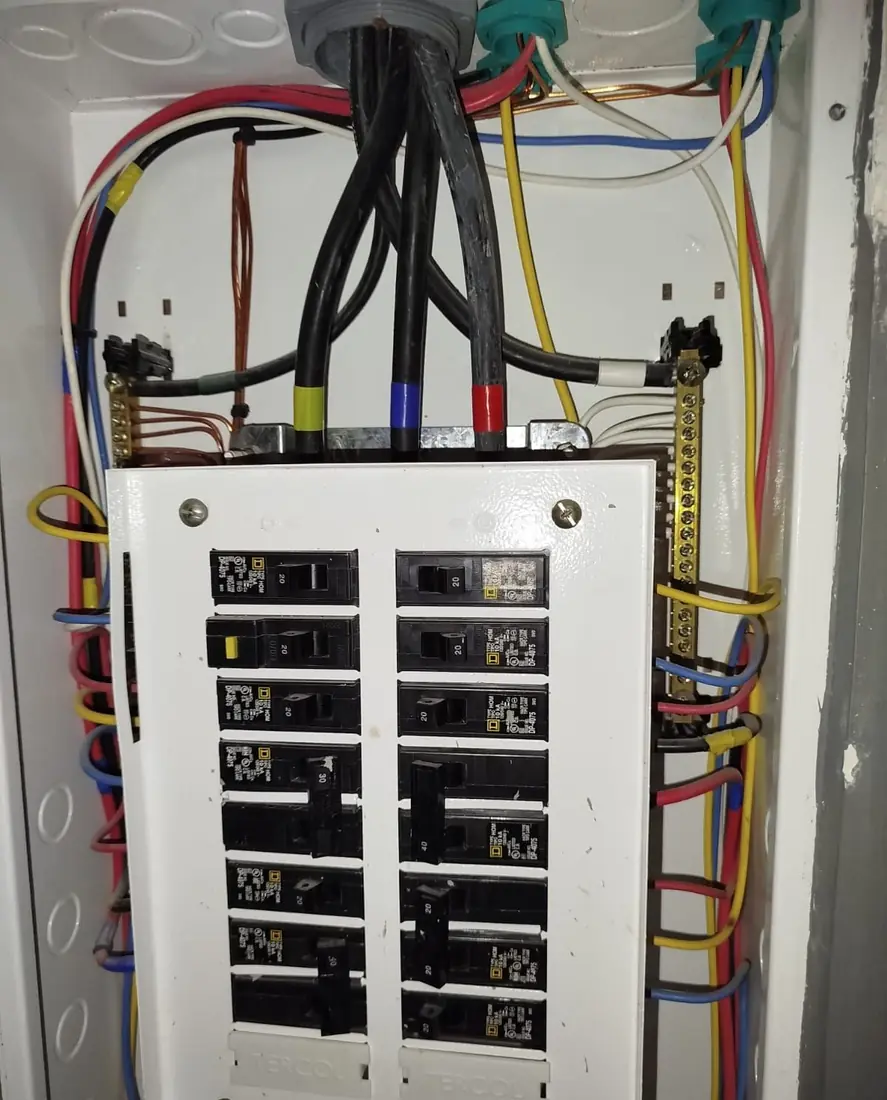
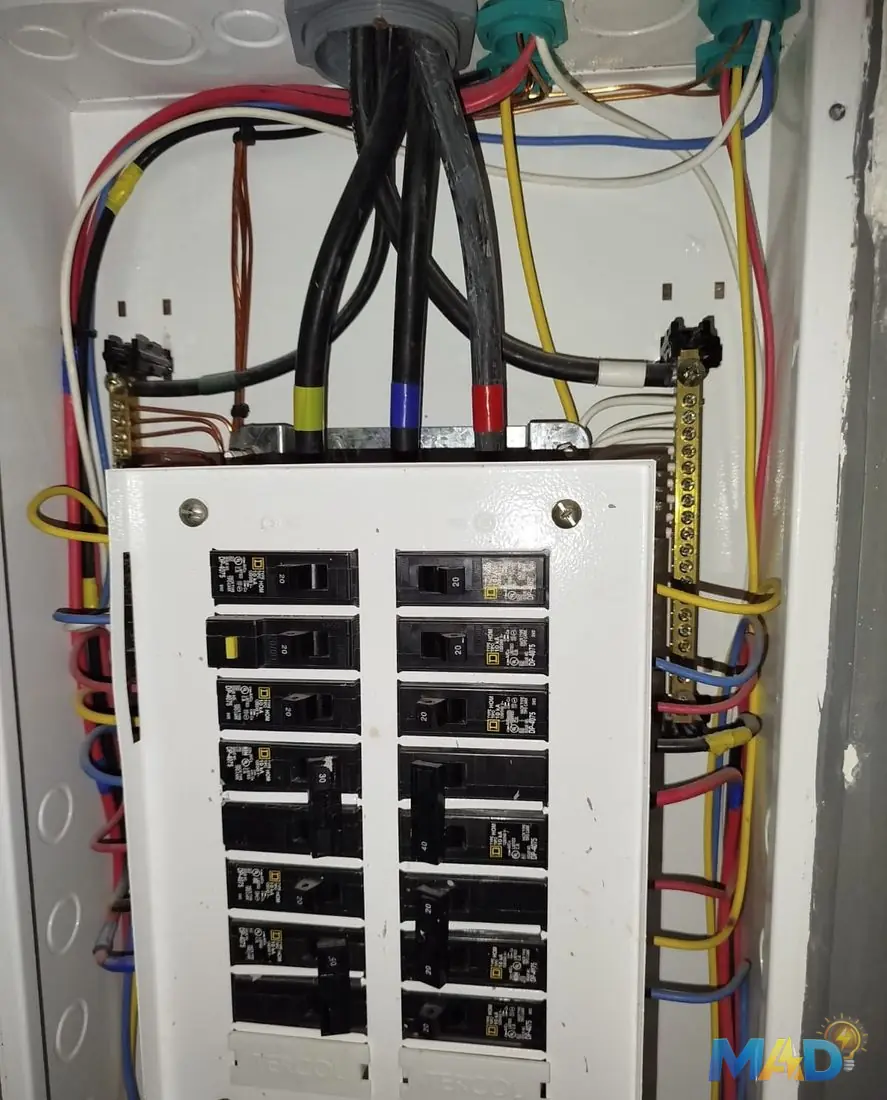
feat: marca de agua en fotos ampliadas y guía de regla WAF para imágenes

Changed region(s): [[0.7914, 0.9273, 0.9741, 0.9891]]

diff --git a/docs/DEPLOY-CLOUDFLARE.md b/docs/DEPLOY-CLOUDFLARE.md
@@ -41,8 +41,25 @@ curl -s -o /dev/null -w "%{http_code}\n" https://TU-DOMINIO/ruta-inexistente   #
 ```
 Y revisa la página en móvil y escritorio. Opcional: Lighthouse desde Chrome DevTools.
 
+## 8. Protección de imágenes en Cloudflare (recomendado)
+Qué ya está en el código: fotos pequeñas sin metadatos, **marca de agua del logo en las fotos ampliadas**, sin arrastrar ni clic derecho.
+Qué se configura en el panel de Cloudflare (no puede ir en el repositorio):
+
+1. **Regla de firewall** (*Security* › *WAF* › *Custom rules* › *Create rule* › *Edit expression*), acción **Block**:
+   ```
+   (starts_with(http.request.uri.path, "/assets/webp/")
+     and not http.referer contains "TU-DOMINIO.com"
+     and not http.referer contains ".pages.dev")
+   ```
+   Bloquea imágenes pedidas sin pasar por tu página (hotlinking, abrir la URL directa, descargadores simples). Cambia `TU-DOMINIO.com` por el dominio real.
+2. **Bot Fight Mode** (*Security* › *Bots*): activar.
+3. Si el plan gratis lo permite, una regla de **límite de peticiones** por IP sobre `/assets/webp/`.
+
+Comprobación: abre `https://TU-DOMINIO/assets/webp/<archivo>.webp` directamente (debe dar error 403) y confirma que la página sigue mostrando todas las fotos.
+Límite honesto: el `Referer` se puede falsificar desde un script y las capturas de pantalla no se pueden impedir.
+
 ## Notas
 - **Reversión:** en *Deployments* del proyecto puedes volver a un despliegue anterior.
-- **Protección de imágenes:** el *Hotlink Protection* integrado de Cloudflare solo cubre gif/ico/jpg/jpeg/png, no `webp`. Una regla personalizada de WAF por `Referer` puede cubrir `webp`; no frena capturas de pantalla.
+- **Protección de imágenes:** el *Hotlink Protection* integrado de Cloudflare solo cubre gif/ico/jpg/jpeg/png, no `webp`; por eso se usa la regla del punto 8.
 - **Cloudflare recomienda Workers para proyectos nuevos.** Pages sigue activo; si algún día se retira, migrar es un cambio de `wrangler pages deploy` a `wrangler deploy` (ver su guía de migración).
 - La demo en Render (`render.yaml`) puede borrarse al terminar; no interfiere con este flujo.

diff --git a/README.md b/README.md
@@ -50,7 +50,7 @@ Los originales (fotos de celular de varios MB) **no** están en el repositorio. 
 | Hero | 640×800 | ~75 KB |
 | Sobre nosotros | 560×560 | ~40 KB |
 | Miniaturas de galería (16) | 480×360 | 4–60 KB (media ~20 KB) |
-| Ampliación (solo al abrir el visor) | ≤1100 px | 15–320 KB |
+| Ampliación (solo al abrir el visor, con marca de agua) | ≤1100 px | 17–320 KB |
 | Logo | 420×276 / 260×116 | 46 KB / 12 KB |
 
 Carga inicial: solo hero + logo; el resto con `loading="lazy"`.
